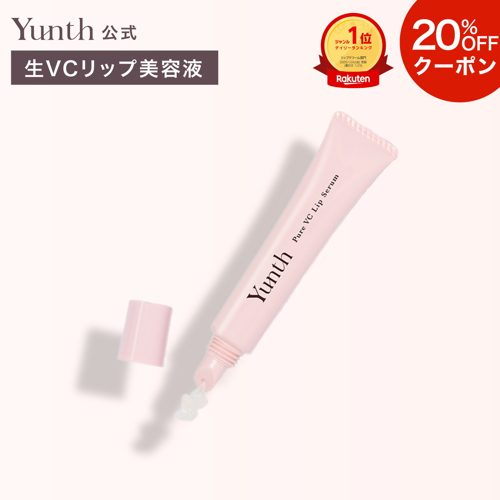
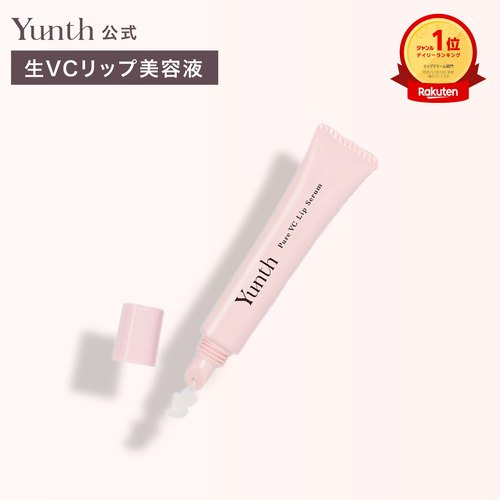
対象商品のサムネをクーポン・ポイントアイコンなしの最新画像に差し替え

diff --git a/index-pink.html b/index-pink.html
@@ -1103,7 +1103,7 @@ main .pt-note{white-space:nowrap;font-size:min(12px,2.7vw);letter-spacing:0}
       <p class="pt-note">※エントリー・購入条件あり。獲得ポイントには上限があります。</p>
   <div class="targets">
     <p class="targets-lb">ポイント15倍の対象商品</p>
-    <ul class="t-grid"><li><a href="https://item.rakuten.co.jp/yunth/500-08/"><img src="images/targets/500-08.jpg" alt="" loading="lazy"><span class="t-name">選べる楽天市場限定セット 洗顔 クリアフォーム</span><span class="t-price"><b>2,200</b>円〜<small>(税込)</small></span></a></li><li><a href="https://item.rakuten.co.jp/yunth/10000007/"><img src="images/targets/10000007.jpg" alt="" loading="lazy"><span class="t-name"><small class="t-qd">医薬部外品</small>生VC美白<sup>＊</sup>クリーム</span><span class="t-price"><b>3,960</b>円〜<small>(税込)</small></span></a></li><li><a href="https://item.rakuten.co.jp/yunth/yb-120-001/"><img src="images/targets/yb-120-001.jpg" alt="" loading="lazy"><span class="t-name">フュージョンクレンジング</span><span class="t-price"><b>3,289</b>円〜<small>(税込)</small></span></a></li><li><a href="https://item.rakuten.co.jp/yunth/yb-113-001/"><img src="images/targets/yb-113-001.jpg" alt="" loading="lazy"><span class="t-name"><small class="t-qd">医薬部外品</small>美白<sup>＊</sup>ハンドセラム</span><span class="t-price"><b>1,980</b>円〜<small>(税込)</small></span></a></li><li><a href="https://item.rakuten.co.jp/yunth/yb-118-001/"><img src="images/targets/yb-118-001.jpg" alt="" loading="lazy"><span class="t-name">VAリンクルアイセラム</span><span class="t-price"><b>4,950</b>円〜<small>(税込)</small></span></a></li><li><a href="https://item.rakuten.co.jp/yunth/yb-121-001/"><img src="images/targets/yb-121-001.jpg" alt="" loading="lazy"><span class="t-name">マルチスクエアシートマスク</span><span class="t-price"><b>2,640</b>円〜<small>(税込)</small></span></a></li><li><a href="https://item.rakuten.co.jp/yunth/yb-127-001/"><img src="images/targets/yb-127-001.jpg" alt="" loading="lazy"><span class="t-name">ピュアマスク 大容量ボックス 28枚入り</span><span class="t-price"><b>2,640</b>円〜<small>(税込)</small></span></a></li><li><a href="https://item.rakuten.co.jp/yunth/pokemon/"><img src="images/targets/pokemon.jpg" alt="" loading="lazy"><span class="t-name">ポケモンパッケージ 美容液</span><span class="t-price"><b>3,960</b>円〜<small>(税込)</small></span></a></li><li><a href="https://item.rakuten.co.jp/yunth/toystory/"><img src="images/targets/toystory.jpg" alt="" loading="lazy"><span class="t-name">トイストーリーコラボ 美容液</span><span class="t-price"><b>3,960</b>円〜<small>(税込)</small></span></a></li></ul>
+    <ul class="t-grid"><li><a href="https://item.rakuten.co.jp/yunth/500-08/"><img src="images/targets/500-08.jpg?v=2" alt="" loading="lazy"><span class="t-name">選べる楽天市場限定セット 洗顔 クリアフォーム</span><span class="t-price"><b>2,200</b>円〜<small>(税込)</small></span></a></li><li><a href="https://item.rakuten.co.jp/yunth/10000007/"><img src="images/targets/10000007.jpg?v=2" alt="" loading="lazy"><span class="t-name"><small class="t-qd">医薬部外品</small>生VC美白<sup>＊</sup>クリーム</span><span class="t-price"><b>3,960</b>円〜<small>(税込)</small></span></a></li><li><a href="https://item.rakuten.co.jp/yunth/yb-120-001/"><img src="images/targets/yb-120-001.jpg?v=2" alt="" loading="lazy"><span class="t-name">フュージョンクレンジング</span><span class="t-price"><b>3,289</b>円〜<small>(税込)</small></span></a></li><li><a href="https://item.rakuten.co.jp/yunth/yb-113-001/"><img src="images/targets/yb-113-001.jpg?v=2" alt="" loading="lazy"><span class="t-name"><small class="t-qd">医薬部外品</small>美白<sup>＊</sup>ハンドセラム</span><span class="t-price"><b>1,980</b>円〜<small>(税込)</small></span></a></li><li><a href="https://item.rakuten.co.jp/yunth/yb-118-001/"><img src="images/targets/yb-118-001.jpg?v=2" alt="" loading="lazy"><span class="t-name">VAリンクルアイセラム</span><span class="t-price"><b>4,950</b>円〜<small>(税込)</small></span></a></li><li><a href="https://item.rakuten.co.jp/yunth/yb-121-001/"><img src="images/targets/yb-121-001.jpg?v=2" alt="" loading="lazy"><span class="t-name">マルチスクエアシートマスク</span><span class="t-price"><b>2,640</b>円〜<small>(税込)</small></span></a></li><li><a href="https://item.rakuten.co.jp/yunth/yb-127-001/"><img src="images/targets/yb-127-001.jpg?v=2" alt="" loading="lazy"><span class="t-name">ピュアマスク 大容量ボックス 28枚入り</span><span class="t-price"><b>2,640</b>円〜<small>(税込)</small></span></a></li><li><a href="https://item.rakuten.co.jp/yunth/pokemon/"><img src="images/targets/pokemon.jpg?v=2" alt="" loading="lazy"><span class="t-name">ポケモンパッケージ 美容液</span><span class="t-price"><b>3,960</b>円〜<small>(税込)</small></span></a></li><li><a href="https://item.rakuten.co.jp/yunth/toystory/"><img src="images/targets/toystory.jpg?v=2" alt="" loading="lazy"><span class="t-name">トイストーリーコラボ 美容液</span><span class="t-price"><b>3,960</b>円〜<small>(税込)</small></span></a></li></ul>
     <p class="t-note">＊メラニンの生成を抑え、シミ・そばかすを防ぐ</p>
   </div>
   <div class="deal-sub">
@@ -1112,7 +1112,7 @@ main .pt-note{white-space:nowrap;font-size:min(12px,2.7vw);letter-spacing:0}
       <p class="pt-note">※エントリー・購入条件あり。獲得ポイントには上限があります。</p>
     <div class="targets">
       <p class="targets-lb">BIG DEAL 20%還元の対象商品</p>
-      <ul class="t-grid"><li><a href="https://item.rakuten.co.jp/yunth/yb-116-001/"><img src="images/targets/yb-116-001.jpg" alt="" loading="lazy"><span class="t-name">生VA美容液</span><span class="t-price"><b>4,950</b>円〜<small>(税込)</small></span></a></li><li><a href="https://item.rakuten.co.jp/yunth/yb-125-001/"><img src="images/targets/yb-125-001.jpg" alt="" loading="lazy"><span class="t-name">生AZ美容液</span><span class="t-price"><b>3,960</b>円〜<small>(税込)</small></span></a></li><li><a href="https://item.rakuten.co.jp/yunth/ys-r184/"><img src="images/targets/ys-r184.jpg" alt="" loading="lazy"><span class="t-name">美顔器 Deep Boostセット</span><span class="t-price"><b>40,370</b>円〜<small>(税込)</small></span></a></li><li><a href="https://item.rakuten.co.jp/yunth/111-01/"><img src="images/targets/111-01.jpg" alt="" loading="lazy"><span class="t-name"><small class="t-qd">医薬部外品</small>生VC美白<sup>＊</sup>化粧水</span><span class="t-price"><b>3,960</b>円〜<small>(税込)</small></span></a></li><li><a href="https://item.rakuten.co.jp/yunth/112/"><img src="images/targets/112.jpg" alt="" loading="lazy"><span class="t-name">生VCトーンアップUV</span><span class="t-price"><b>2,970</b>円〜<small>(税込)</small></span></a></li><li><a href="https://item.rakuten.co.jp/yunth/yb-115-001/"><img src="images/targets/yb-115-001.jpg" alt="" loading="lazy"><span class="t-name">生VCホワイトクリアフォーム</span><span class="t-price"><b>3,960</b>円〜<small>(税込)</small></span></a></li><li><a href="https://item.rakuten.co.jp/yunth/yb-123-001/"><img src="images/targets/yb-123-001.jpg" alt="" loading="lazy"><span class="t-name">クッションファンデーション エアレス</span><span class="t-price"><b>3,960</b>円〜<small>(税込)</small></span></a></li><li><a href="https://item.rakuten.co.jp/yunth/yb-114-001/"><img src="images/targets/yb-114-001.jpg" alt="" loading="lazy"><span class="t-name">生VCリップ美容液</span><span class="t-price"><b>1,650</b>円〜<small>(税込)</small></span></a></li><li><a href="https://item.rakuten.co.jp/yunth/yb-117-001/"><img src="images/targets/yb-117-001.jpg" alt="" loading="lazy"><span class="t-name">生VCホワイト乳液</span><span class="t-price"><b>3,960</b>円〜<small>(税込)</small></span></a></li><li><a href="https://item.rakuten.co.jp/yunth/10000001/"><img src="images/targets/10000001.jpg" alt="" loading="lazy"><span class="t-name"><small class="t-qd">医薬部外品</small>美白<sup>＊</sup>シートマスク 6枚</span><span class="t-price"><b>1,980</b>円〜<small>(税込)</small></span></a></li><li><a href="https://item.rakuten.co.jp/yunth/ys-r129/"><img src="images/targets/ys-r129.jpg" alt="" loading="lazy"><span class="t-name">ピュアマスク 4袋・8袋セット</span><span class="t-price"><b>3,410</b>円〜<small>(税込)</small></span></a></li></ul>
+      <ul class="t-grid"><li><a href="https://item.rakuten.co.jp/yunth/yb-116-001/"><img src="images/targets/yb-116-001.jpg?v=2" alt="" loading="lazy"><span class="t-name">生VA美容液</span><span class="t-price"><b>4,950</b>円〜<small>(税込)</small></span></a></li><li><a href="https://item.rakuten.co.jp/yunth/yb-125-001/"><img src="images/targets/yb-125-001.jpg?v=2" alt="" loading="lazy"><span class="t-name">生AZ美容液</span><span class="t-price"><b>3,960</b>円〜<small>(税込)</small></span></a></li><li><a href="https://item.rakuten.co.jp/yunth/ys-r184/"><img src="images/targets/ys-r184.jpg?v=2" alt="" loading="lazy"><span class="t-name">美顔器 Deep Boostセット</span><span class="t-price"><b>40,370</b>円〜<small>(税込)</small></span></a></li><li><a href="https://item.rakuten.co.jp/yunth/111-01/"><img src="images/targets/111-01.jpg?v=2" alt="" loading="lazy"><span class="t-name"><small class="t-qd">医薬部外品</small>生VC美白<sup>＊</sup>化粧水</span><span class="t-price"><b>3,960</b>円〜<small>(税込)</small></span></a></li><li><a href="https://item.rakuten.co.jp/yunth/112/"><img src="images/targets/112.jpg?v=2" alt="" loading="lazy"><span class="t-name">生VCトーンアップUV</span><span class="t-price"><b>2,970</b>円〜<small>(税込)</small></span></a></li><li><a href="https://item.rakuten.co.jp/yunth/yb-115-001/"><img src="images/targets/yb-115-001.jpg?v=2" alt="" loading="lazy"><span class="t-name">生VCホワイトクリアフォーム</span><span class="t-price"><b>3,960</b>円〜<small>(税込)</small></span></a></li><li><a href="https://item.rakuten.co.jp/yunth/yb-123-001/"><img src="images/targets/yb-123-001.jpg?v=2" alt="" loading="lazy"><span class="t-name">クッションファンデーション エアレス</span><span class="t-price"><b>3,960</b>円〜<small>(税込)</small></span></a></li><li><a href="https://item.rakuten.co.jp/yunth/yb-114-001/"><img src="images/targets/yb-114-001.jpg?v=2" alt="" loading="lazy"><span class="t-name">生VCリップ美容液</span><span class="t-price"><b>1,650</b>円〜<small>(税込)</small></span></a></li><li><a href="https://item.rakuten.co.jp/yunth/yb-117-001/"><img src="images/targets/yb-117-001.jpg?v=2" alt="" loading="lazy"><span class="t-name">生VCホワイト乳液</span><span class="t-price"><b>3,960</b>円〜<small>(税込)</small></span></a></li><li><a href="https://item.rakuten.co.jp/yunth/10000001/"><img src="images/targets/10000001.jpg?v=2" alt="" loading="lazy"><span class="t-name"><small class="t-qd">医薬部外品</small>美白<sup>＊</sup>シートマスク 6枚</span><span class="t-price"><b>1,980</b>円〜<small>(税込)</small></span></a></li><li><a href="https://item.rakuten.co.jp/yunth/ys-r129/"><img src="images/targets/ys-r129.jpg?v=2" alt="" loading="lazy"><span class="t-name">ピュアマスク 4袋・8袋セット</span><span class="t-price"><b>3,410</b>円〜<small>(税込)</small></span></a></li></ul>
     <p class="t-note">＊メラニンの生成を抑え、シミ・そばかすを防ぐ</p>
     </div>
   </div>
